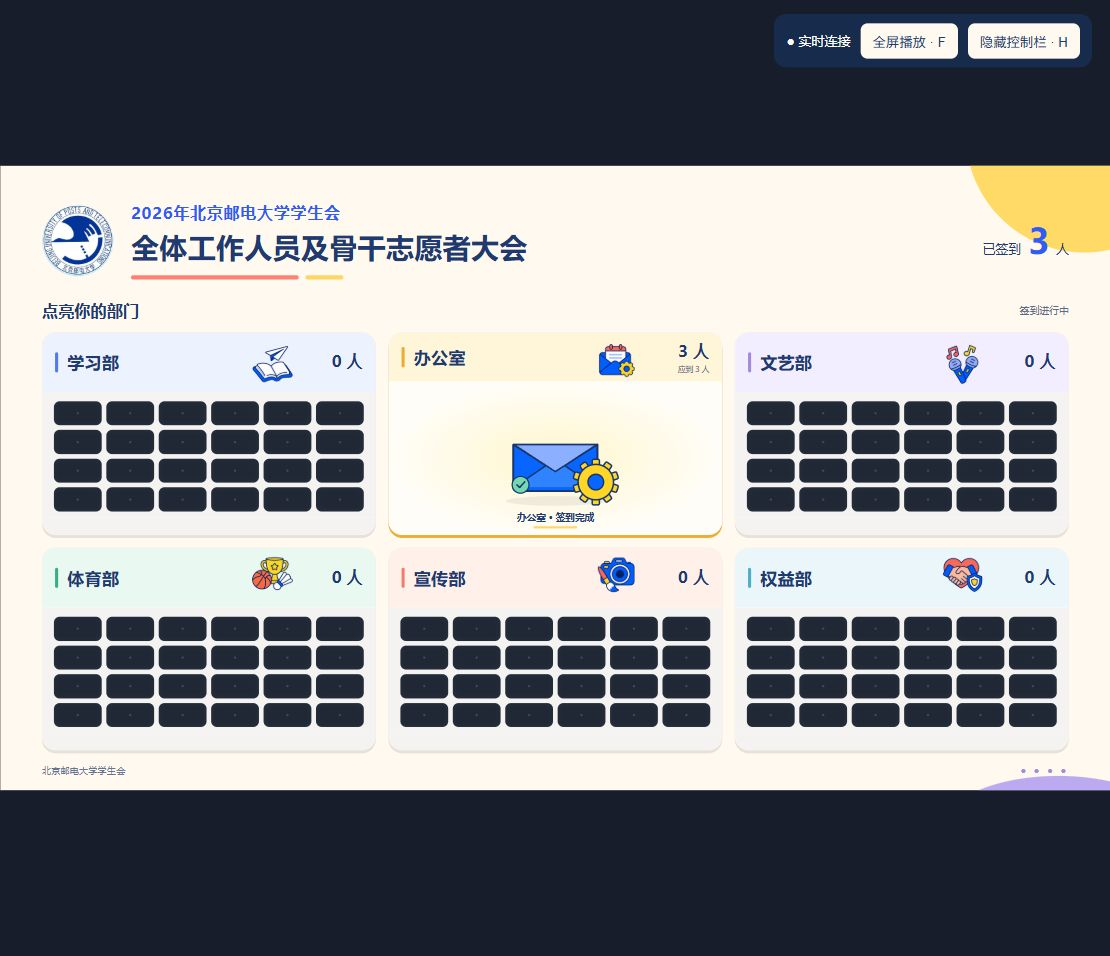
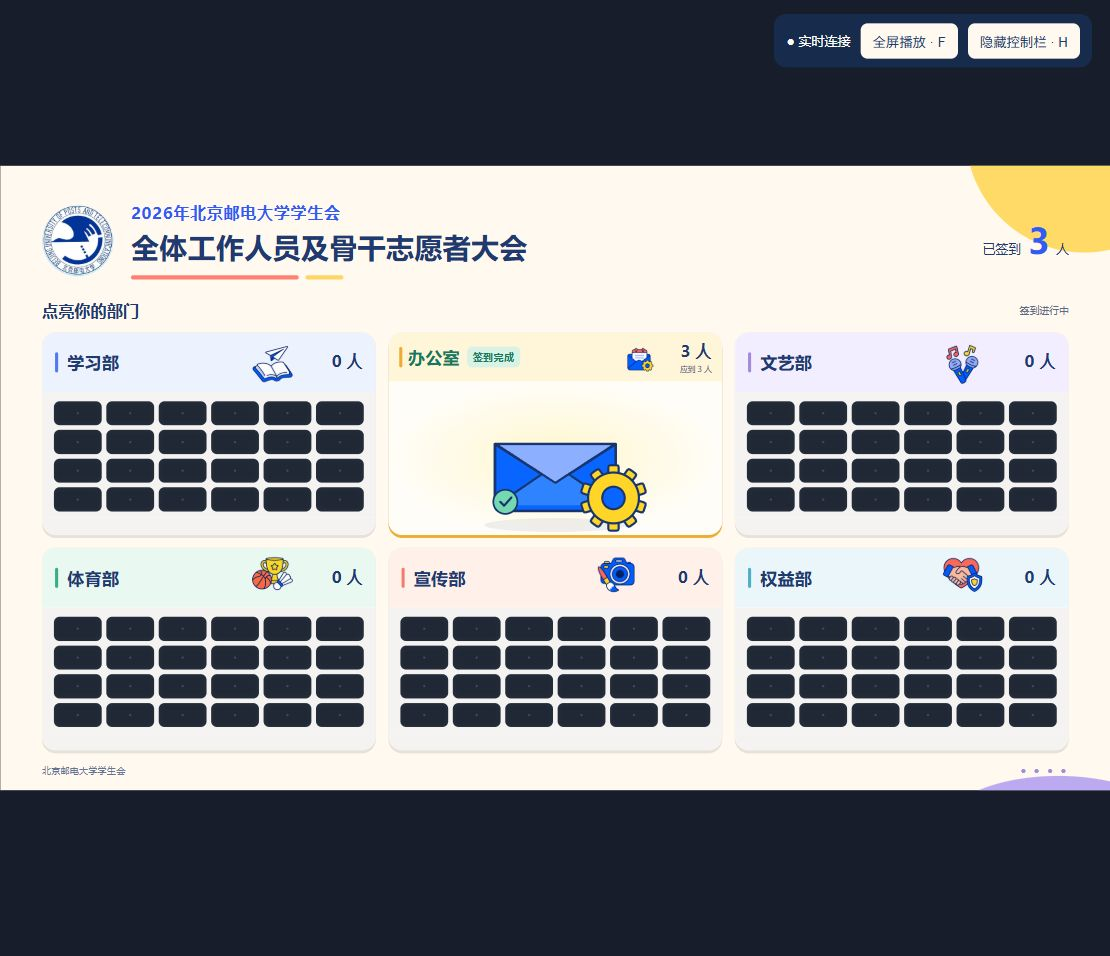
style: move office completion status to header and enlarge animation

Changed region(s): [[0.4288, 0.455, 0.582, 0.5764], [0.3369, 0.364, 0.4901, 0.3944], [0.5207, 0.364, 0.6432, 0.3944]]

diff --git a/public/screen.js b/public/screen.js
@@ -10,7 +10,7 @@ const reducedMotion = matchMedia('(prefers-reduced-motion: reduce)');
 function officeAnimation(names) {
   const panel = element('div', 'office-completion');
   const svg = officeArtwork.cloneNode(true);
-  svg.setAttribute('viewBox', '150 65 660 510');
+  svg.setAttribute('viewBox', '220 130 520 355');
   svg.querySelector('title').textContent = '办公室签到完成';
   svg.querySelector('desc').textContent = '办公室签到完成：姓名汇入信封，齿轮旋转，完成徽章亮起。';
   // Use real attendees, never the standalone sample's placeholder names.
@@ -22,6 +22,8 @@ function officeAnimation(names) {
       label.setAttribute('lengthAdjust', 'spacingAndGlyphs');
     }
   });
+  // Completion is announced in the department header, not inside the artwork.
+  svg.querySelector('text[x="480"]').parentElement.remove();
   panel.append(svg);
   return panel;
 }
@@ -57,6 +59,7 @@ function render(s, animate = false) {
       else if (officeArtwork) {
         if (officeCompletedAt === null) officeCompletedAt = performance.now();
         card.classList.add('office-finished');
+        header.querySelector('h3').append(element('span', 'completion-label', '签到完成'));
         card.append(officeAnimation(names));
         fragment.append(card);
         return;

diff --git a/public/screen.css b/public/screen.css
@@ -40,6 +40,11 @@ h1{font-size:48px;line-height:1.25;margin:0;font-weight:800;letter-spacing:1px;w
 .office-completion{flex:1;min-height:0;display:flex;align-items:center;justify-content:center;background:radial-gradient(ellipse at center,#fff6cd 0%,#fffdf7 70%);overflow:hidden}
 .office-completion svg{display:block;width:100%;height:100%;min-height:0}
 .office-finished .dept-header{height:85px}
+.office-finished .dept-header h3{color:#18785b;display:flex;align-items:center;gap:12px}
+.completion-label{font-size:18px;font-weight:700;padding:6px 10px;border-radius:9px;background:#d8f3e5;color:#18785b}
+.office-finished .dept-header{gap:10px;padding-left:18px;padding-right:18px}
+.office-finished .icon{width:58px;height:58px}
+.office-finished .progress{min-width:85px}
 footer{display:flex;justify-content:space-between;align-items:center;margin-top:23px;font-size:16px;color:#657394}
 .dots{color:#a28adc;letter-spacing:4px}.controls{position:fixed;right:18px;top:14px;z-index:5;display:flex;align-items:center;gap:10px;padding:9px 12px;background:#172c50ec;color:white;border-radius:12px;font-size:13px;transition:opacity .25s}
 .controls button{border:0;border-radius:7px;padding:8px 12px;background:#fff9ef;color:#203971;cursor:pointer}
